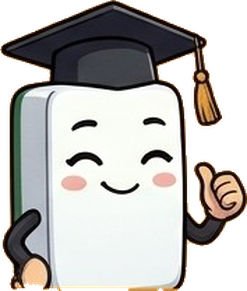
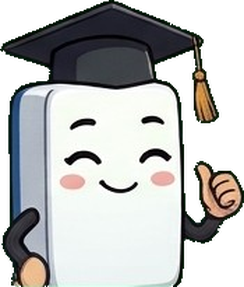
mahjong: teacher art updated (green bg/blue back cutouts), teacher docked bottom-left (no overlap), call buttons shift right while teacher shown
Claude-Session: https://claude.ai/code/session_015fwoRN5EZXb2K7SzR6LxUP

diff --git a/mahjong/js/ui.js b/mahjong/js/ui.js
@@ -398,6 +398,9 @@
       document.body.classList.toggle('calling', !!(this.sel && this.sel.type === 'react' && this.callOptions(this.sel).opts.length));
       this.fitTip();
       if (this.sel && this.sel.type === 'react' && document.querySelector('.callq .cq-btn[data-ids]')) this.hlCall(null); // 鳴きの確認が出たら、最初の鳴き方の牌を光らせる
+      // 鳴きの確認が出ている間は、先生のアドバイスを左下に出す。終わったら消す
+      if (this.sel && this.sel.type === 'react' && this._brief && document.querySelector('.callq')) { const d = $('#says .tdock'); if (!d || d.dataset.kind !== 'call') this.teacherSay(this._brief.text, this._brief.rec === 'pass' ? 'pass' : this._brief.rec === 'ron' ? 'ron' : 'ok', 0, 'call'); }
+      else this.clearDock('call');
       if (MJ.Pad && MJ.Pad.syncLock) MJ.Pad.syncLock();
       if (this.dng) this.hilite(this.picked != null ? ((game.players[0].hand.find((x) => x.id === this.picked) || {}).t) : this.hiType);
       if (MJ.Pad) MJ.Pad.refocus();
@@ -545,14 +548,22 @@
       this._aimAt = now; this._aimLast = h.name;
       this.teacherSay(h.text, 'advice', 7000);
     },
-    teacherSay(text, mood, ms = 6000) {
+    /* 先生の置き場所: 左下の、手牌の上(いつもは「切る牌をタップ」の表示がある所)。プレイの邪魔にならない場所に固定 */
+    teacherSay(text, mood, ms = 6000, kind = 'tip') {
       const host = $('#says'); if (!host) return;
-      host.querySelectorAll('.tsay').forEach((x) => x.remove());
+      this.clearDock();
       const el = document.createElement('div');
-      el.className = 'tsay';
+      el.className = 'tdock'; el.dataset.kind = kind;
       el.innerHTML = `${this.teacherImg(mood)}<div class="tb"><b>先生</b>${text}</div>`;
       host.appendChild(el);
-      setTimeout(() => el.remove(), ms);
+      document.body.classList.add('tdock-on');
+      clearTimeout(this._tdT);
+      if (ms) this._tdT = setTimeout(() => this.clearDock(), ms);
+    },
+    clearDock(kind) {
+      const d = $('#says .tdock');
+      if (!d || (kind && d.dataset.kind !== kind)) return;
+      d.remove(); document.body.classList.remove('tdock-on'); clearTimeout(this._tdT);
     },
     /* 「どうする?」: 文字だけのボタンを手牌の上に並べる。選んでいる鳴きに使う手牌が持ち上がって光り、捨てられた牌は枠で光る */
     callCard(game, s, cand) {
@@ -561,6 +572,7 @@
       const chis = cand.opts.filter((x) => x.kind === 'chi');
       this.chiCombos = chis; this.chiIdx = 0;
       const brief = this.hintOn ? MJ.Coach.reactBrief(game, s.p, o) : null; // 先生のひとこと(先生ありのとき)
+      this._brief = brief;
       const recKind = brief && brief.rec === 'call' ? brief.kind : null;
       const recTag = '<small class="cq-sub cq-rec">おすすめ</small>';
       const btns = [];
@@ -577,7 +589,7 @@
       btns.push(`<button class="btn b-pass cq-btn" data-act="pass">見送る${brief && brief.rec === 'pass' ? recTag : ''}</button>`); // 見送るは、いちばん右
       const multiNote = chis.length > 1 ? '光る牌でチー。牌をさわると、組み合わせを変えられます' : '';
       const note = multiNote || (!o.ron && !cand.opts.length ? (o.ronBlock === 'furiten' ? 'フリテンのためロンできません' : o.ronBlock === 'noyaku' ? '役がないためロンできません' : '') : '');
-      return `<div class="callq"><div class="cq-btns">${btns.join('')}</div>${note ? `<div class="cq-note">${note}</div>` : ''}<div class="cq-keys"><span class="cq-pk">◀▶ でえらんで <b data-k="A">A</b> で決定</span><span class="cq-pt">◀▶ で牌をえらんで <b data-k="A">A</b> で決定(▲ もどる)</span></div>${brief ? `<div class="cq-teach">${this.teacherImg(brief.rec === 'pass' ? 'pass' : brief.rec === 'ron' ? 'ron' : 'ok')}<div class="tb"><b>先生</b>${brief.text}</div></div>` : ''}</div>`;
+      return `<div class="callq"><div class="cq-btns">${btns.join('')}</div>${note ? `<div class="cq-note">${note}</div>` : ''}<div class="cq-keys"><span class="cq-pk">◀▶ でえらんで <b data-k="A">A</b> で決定</span><span class="cq-pt">◀▶ で牌をえらんで <b data-k="A">A</b> で決定(▲ もどる)</span></div></div>`;
     },
     /* チーの組み合わせを切り替える(▼で牌の選択に入ったあと、◀▶で) */
     setChi(i) {

diff --git a/mahjong/simple.css b/mahjong/simple.css
@@ -307,17 +307,17 @@ img.fyou { object-fit: cover; border-radius: 12px; aspect-ratio: 1; width: auto;
 .in-seat.me img { height: 10cqw; width: 10cqw; border-width: .35cqw; border-radius: 1.4cqw; }
 .in-seat.me .in-nm { margin-top: 0; font-size: 2.6cqw; }
 
-/* 先生(麻雀牌のキャラ) */
-img.tcut { height: 96px; width: auto; display: block; flex: none; filter: drop-shadow(0 3px 5px #000a); }
-.cq-teach { display: flex; align-items: flex-end; gap: 8px; max-width: 600px; }
-.cq-teach .tb, .tsay .tb { background: rgba(255, 255, 255, .95); color: #16160f; border: 3px solid #ffd23f; border-radius: 14px; padding: 8px 14px; font-size: 20px; font-weight: 800; line-height: 1.35; margin-bottom: 10px; box-shadow: 0 3px 10px #0008; }
-.cq-teach .tb b, .tsay .tb b { display: block; font-size: 15px; color: #1b6b4a; }
+/* 先生(麻雀牌のキャラ): 左下の決まった場所に出す(河・手牌・ボタンに重ならない) */
+img.tcut { height: 84px; width: auto; display: block; flex: none; filter: drop-shadow(0 3px 5px #000a); }
+.tdock { position: absolute; left: 6px; top: 286px; width: 272px; height: 68px; z-index: 40; display: flex; align-items: flex-end; gap: 6px; pointer-events: none; animation: sayin .2s ease-out; }
+.tdock img.tcut { height: 84px; margin-bottom: -2px; }
+.tdock .tb { flex: 1; min-width: 0; max-height: 68px; overflow: hidden; background: rgba(255, 255, 255, .96); color: #16160f; border: 3px solid #ffd23f; border-radius: 12px; padding: 3px 9px 4px; font-size: 14px; font-weight: 800; line-height: 1.3; box-shadow: 0 3px 10px #0008; }
+.tdock .tb b { display: block; font-size: 11px; color: #1b6b4a; line-height: 1.1; }
+body.tdock-on #mine .tipline { visibility: hidden; }
 .cq-rec { color: #b3261e !important; font-weight: 900 !important; font-size: 14px !important; }
 .callq .cq-btn.b-pass .cq-rec, .callq .cq-btn.b-call .cq-rec, .callq .cq-btn.b-ron .cq-rec { background: #fff; border-radius: 6px; padding: 0 6px; margin-top: 2px; }
-.tsay { position: absolute; left: 6px; top: 6px; z-index: 40; display: flex; align-items: flex-end; gap: 6px; max-width: 330px; animation: sayin .2s ease-out; pointer-events: none; }
-.tsay img.tcut { height: 104px; }
-.tsay .tb { font-size: 17px; }
-body.calling .tsay { display: none; }
-.cq-teach { align-self: center; max-width: 520px; }
-.cq-teach img.tcut { height: 82px; }
-.cq-teach .tb { font-size: 18px; padding: 6px 12px; margin-bottom: 6px; max-width: 360px; }
+
+/* 先生が左下にいる間は、鳴きのボタンを、右へずらして、重ならないようにする */
+body.tdock-on .callq { left: 226px; right: 0; }
+body.tdock-on .callq .cq-btns { gap: 8px; }
+body.tdock-on .callq .cq-btns .cq-btn { min-width: 96px; padding: 2px 12px !important; font-size: 26px !important; }

diff --git a/mahjong/js/coach.js b/mahjong/js/coach.js
@@ -507,7 +507,8 @@
     if (!hs.length) return null;
     const h = hs[0];
     const plain = h.t.replace(/<[^>]+>/g, '');
-    return { name: h.n, text: `${h.n}を目指してみましょう。${plain.length > 46 ? plain.slice(0, 46) + '…' : plain}` };
+    const first = plain.split(/[。]/)[0];
+    return { name: h.n, text: `${h.n}を目指そう!${first.length > 22 ? first.slice(0, 22) + '…' : first}` };
   };
   C.reactAdvice = function (game, p, o) {
     const t = o.tile.t;
